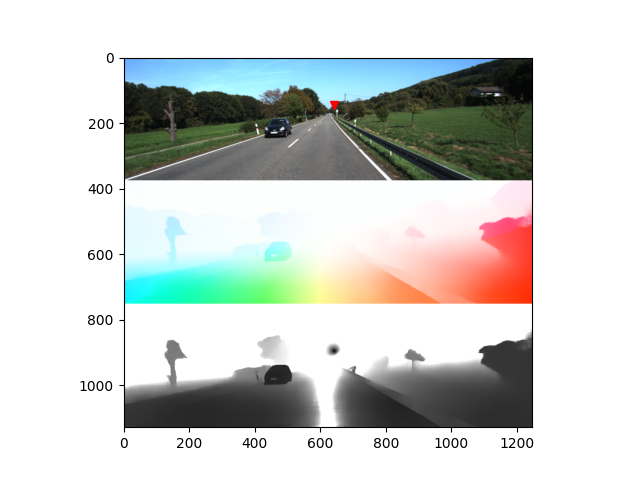
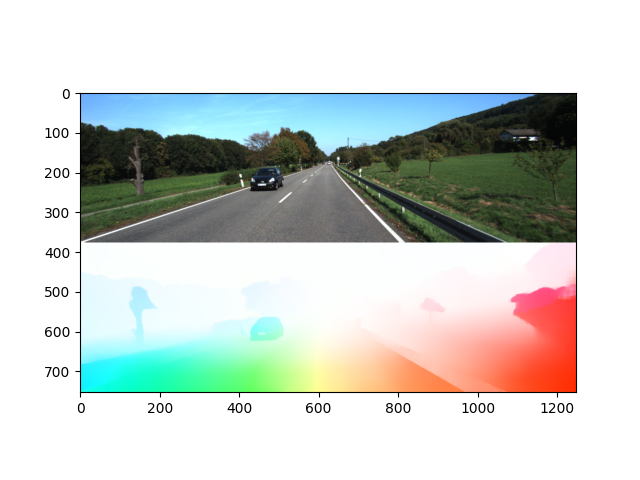
Creating FoE Heatmap, still need to flush out visualization

diff --git a/bin/demo.py b/bin/demo.py
@@ -6,6 +6,7 @@ import glob
 import numpy as np
 import torch
 from PIL import Image
+import matplotlib as mpl
 import matplotlib.pyplot as plt
 import cv2
 
@@ -57,13 +58,21 @@ def main(args):
             optical_flow = flow_up[0].permute(1,2,0).cpu().numpy()
 
             # get foe
-            foe, inlier_ratio, inliers = RANSAC(coords0, coords1)
-            foe = (foe[0]*8, foe[1]*8)
-
-            # get ttc
-            coords = np.array(np.meshgrid(range(optical_flow.shape[1]), range(optical_flow.shape[0])))
-            coords = np.transpose(coords, [1, 2, 0])
-            ttc = get_ttc(coords, optical_flow, foe)
+            # NOTE: we can kernel sample coords0 and coords1 to get subset and find FoE for each subset
+            # then have the results appended to a list of FoEs
+            foe_size = 40
+            foe_step = 3
+            foe_set = []
+            #print(coords0.size())
+            for i in range(0, coords0.size()[2] - foe_size - 1, foe_step):
+                for j in range(0, coords0.size()[3] - foe_size - 1, foe_step):
+                    # Sliding Window Implementation
+                    foe_sample0 = coords0[0, :, i:i+foe_size, j:j+foe_size]
+                    foe_sample1 = coords1[0, :, i:i+foe_size, j:j+foe_size]
+                    foe, inlier_ratio, inliers = RANSAC(foe_sample0, foe_sample1)
+                    foe = [(foe[0])*8, (foe[1])*8]
+                    foe_set.append(foe)
+                    print(len(foe_set))
 
             # visualization
             img = image1
@@ -78,14 +87,20 @@ def main(args):
 
             flo = flow_viz.flow_to_image(optical_flow)
 
-            ttc_viz = (np.clip(ttc/np.percentile(ttc, 50), a_min=0, a_max=1)*255).astype(np.float32)
-            ttc_viz = cv2.cvtColor(ttc_viz, cv2.COLOR_GRAY2RGB)
-
-            img_flo_ttc = np.concatenate([img, flo, ttc_viz], axis=0)
-            plt.plot(foe[0], foe[1], marker="v", color="red")
-            plt.imshow(img_flo_ttc / 255.0)
+            img_flo = np.concatenate([img, flo], axis=0)
+            #plt.plot(foe[0], foe[1], marker="v", color="red")
+            plt.imshow(img_flo / 255.0)
             #plt.show()
             plt.savefig("demo.png")
+
+            foe_x, foe_y = zip(*foe_set)
+            plt.cla()
+            heatmap, xe, ye = np.histogram2d(foe_x, foe_y, bins=(np.ceil([coords0.size()[2], coords0.size()[3]])).astype(int),range=[[0, img.shape[1]],[0, img.shape[0]]])
+            ex = [xe[0], xe[-1], ye[0], ye[-1]]
+            plt.imshow(np.flip(heatmap.T,0), extent=[0, img.shape[1], 0, img.shape[0]], cmap=mpl.colormaps['turbo'])
+            #plt.scatter(foe_x,foe_y)
+            plt.imshow(img / 255.0, alpha=0.5)
+            plt.savefig("foe_heatmap.png")
 
 if __name__ == '__main__':
     parser = argparse.ArgumentParser()

diff --git a/focus-of-expansion/foe.py b/focus-of-expansion/foe.py
@@ -10,8 +10,8 @@ RANSAC_MINIMUM_ERROR_ANGLE = 15
 RANSAC_RATIO_INCREASE_ETA = 0.0001
 
 def format_coords(c0, c1):
-    c0 = c0[0].permute(1, 2, 0).cpu().numpy()
-    c1 = c1[0].permute(1, 2, 0).cpu().numpy()
+    c0 = c0.permute(1, 2, 0).cpu().numpy()
+    c1 = c1.permute(1, 2, 0).cpu().numpy()
 
     c0 = c0.reshape((c0.shape[0]*c0.shape[1], 2))
     c1 = c1.reshape((c1.shape[0]*c1.shape[1], 2))
